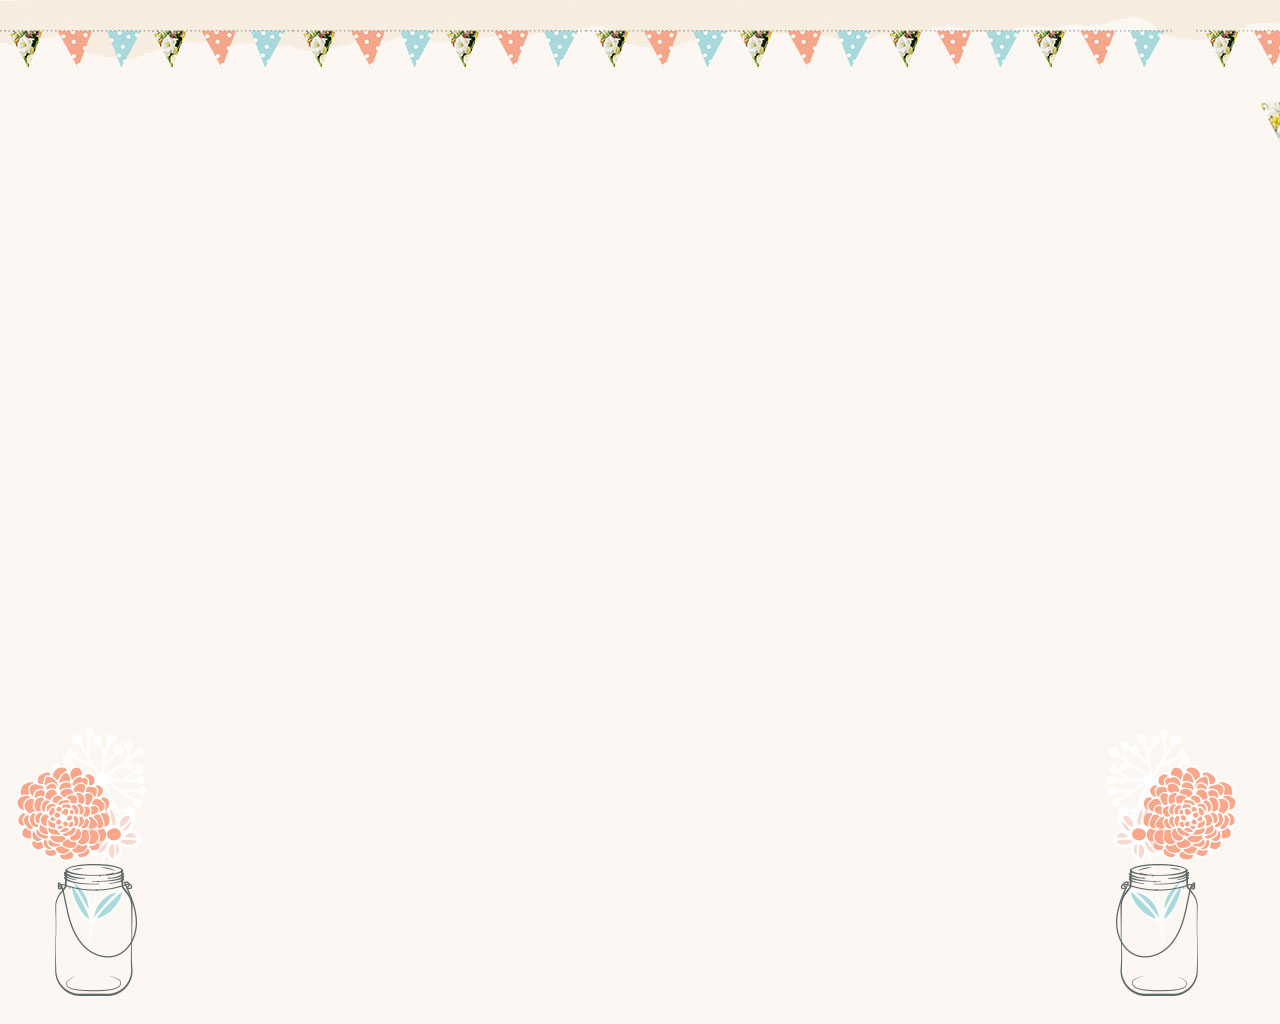
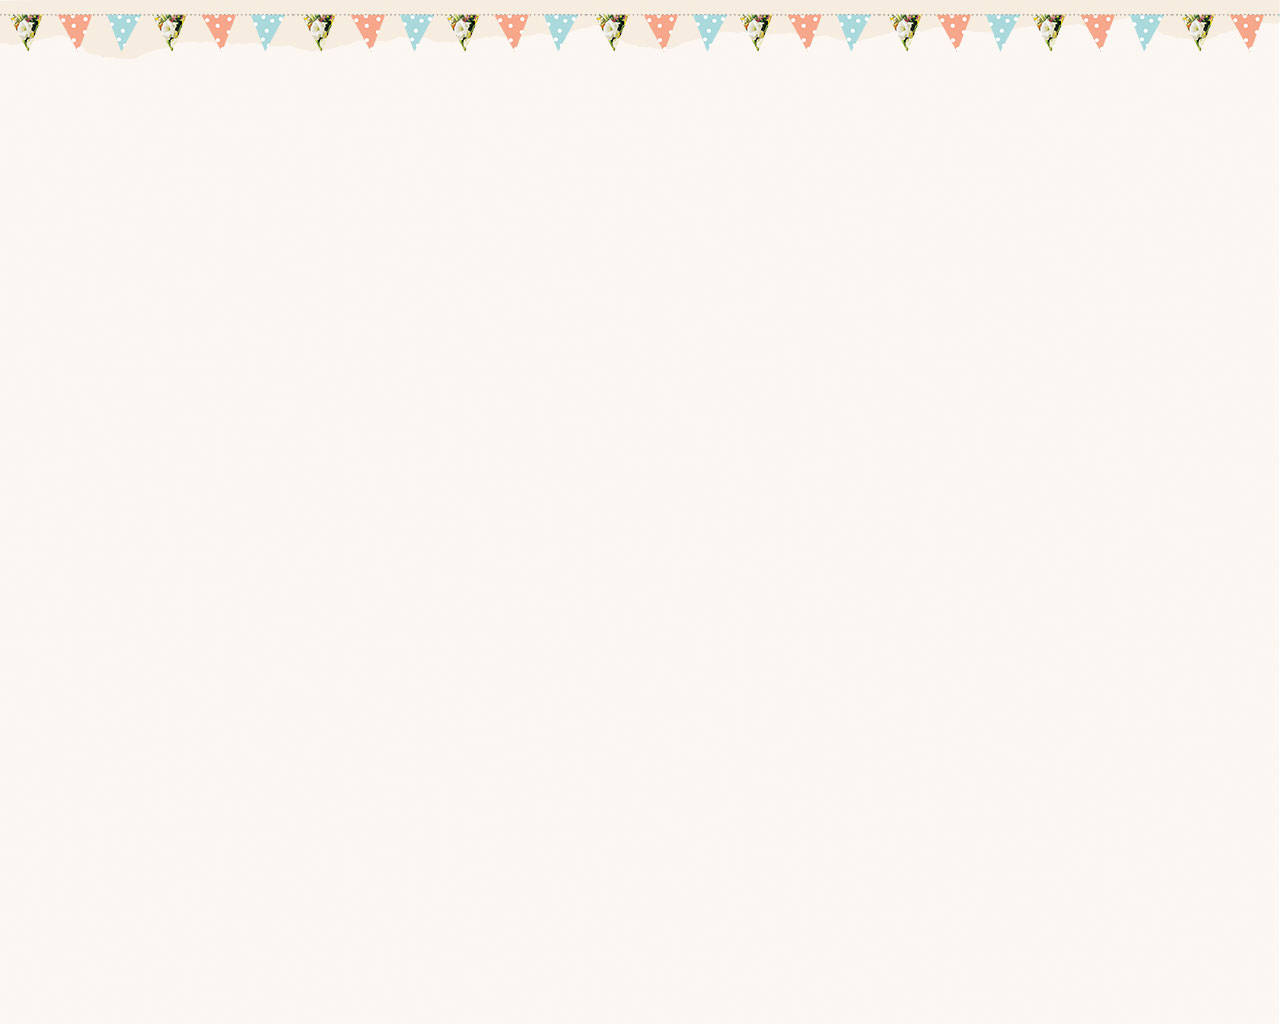
footer update and mobile styles

diff --git a/content/themes/Perfetta/assets/css/style.css b/content/themes/Perfetta/assets/css/style.css
@@ -3,7 +3,8 @@ body > header h2.blog-desc {
 }
 
 body > header ul {
-	width: 710px;
+	width: 100%;
+	max-width: 710px;
 	position: relative;
 	margin: 0 auto;
 	margin-top: 30px;
@@ -26,7 +27,8 @@ body > header ul li {
 }
 
 body.default-bg { 
-	background-image: url('../images/bunting.jpg'); 
+	background-image: url('../images/bunting.jpg');
+	background-size: cover; 
 	/*background-size: contain;*/
 }
 
